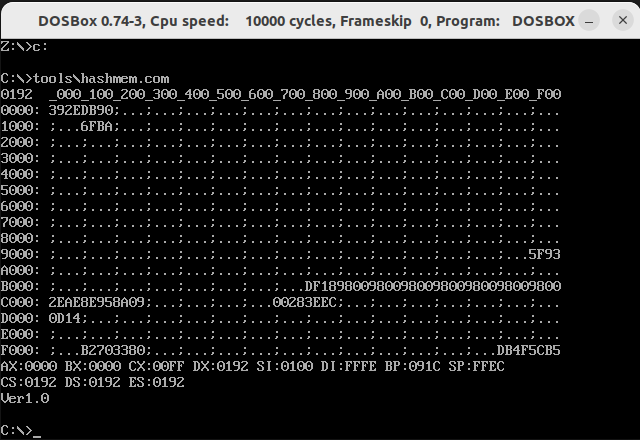
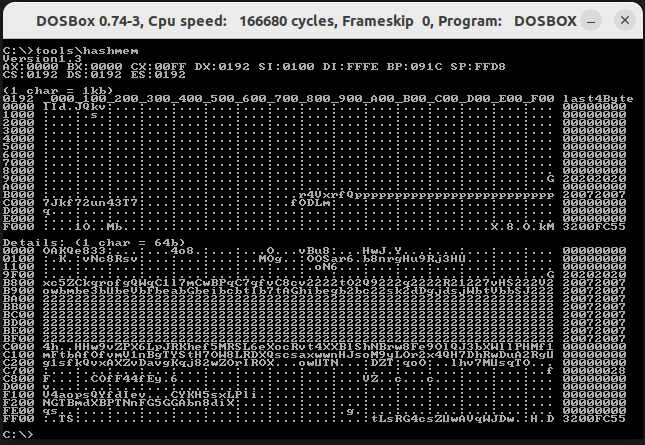
updated docs

diff --git a/SAMPLES.md b/SAMPLES.md
@@ -5,7 +5,149 @@
 - `hashmem.com` version 1.0 (built on 17.2.2024)
 - started directly via `dosbox -c hashmem.com`
 
-| Memory hashes                                               | Setup                                                                         |
-| ----------------------------------------------------------- | ----------------------------------------------------------------------------- |
-| <img src="hashmem_dosbox_0.74-3-ubuntu22.04.png" width=640> | - dosbox/jammy, now 0.74-3-4 amd64<br>- Ubuntu 22.04 LTS<br>- dosbox from apt |
-| <img src="hashmem_dosbox_staging0.81.0.png" width=640>      | - dosbox-staging version 0.81.0<br>- Ubuntu 22.04 LTS                         |
+<table>
+<tr>
+<th colspan=2>
+Comparision of two sample memory hash dumps Dosbox vs Dosbox-staging
+</th>
+</tr>
+<tr>
+<td colspan=2>
+Differences on staging:
+<ul>
+<li>Most memory patches that are NOT filled with zeros are different</li>
+<li>Grafics mode memory (A000 to AFFF) is filled with 0xFF instead of 0x00</li>
+<li>Memory before Textmode memory (B000 to B7FF) is filled with 0xFF instead of 0x00</li>
+</ul>
+</td>
+</tr>
+<tr>
+<td valign=top>dosbox/jammy, now 0.74-3-4 amd64 (Ubuntu 22.04 LTS)
+<pre>
+Version1.3
+AX:0000 BX:0000 CX:00FF DX:0192 SI:0100 DI:FFFE BP:091C SP:FFD8 
+CS:0192 DS:0192 ES:0192
+
+(1 char = 1kb)
+0192 \_000_100_200_300_400_500_600_700_800_900_A00_B00_C00_D00_E00_F00 last4Byte
+0000 l7d.UQuv:...:...:...:...:...:...:...:...:...:...:...:...:...:... 00000000
+1000 :...:.s.:...:...:...:...:...:...:...:...:...:...:...:...:...:... 00000000
+2000 :...:...:...:...:...:...:...:...:...:...:...:...:...:...:...:... 00000000
+3000 :...:...:...:...:...:...:...:...:...:...:...:...:...:...:...:... 00000000
+4000 :...:...:...:...:...:...:...:...:...:...:...:...:...:...:...:... 00000000
+5000 :...:...:...:...:...:...:...:...:...:...:...:...:...:...:...:... 00000000
+6000 :...:...:...:...:...:...:...:...:...:...:...:...:...:...:...:... 00000000
+7000 :...:...:...:...:...:...:...:...:...:...:...:...:...:...:...:... 00000000
+8000 :...:...:...:...:...:...:...:...:...:...:...:...:...:...:...:... 00000000
+9000 :...:...:...:...:...:...:...:...:...:...:...:...:...:...:...:..G 20202020
+A000 :...:...:...:...:...:...:...:...:...:...:...:...:...:...:...:... 00000000
+B000 :...:...:...:...:...:...:...:...r4V3pppppppppppppppppppppppppppp 20072007
+C000 7Jkf72un43T7:...:...:...:...:..fODB.:...:...:...:...:...:...:... 00000000
+D000 q...:...:...:...:...:...:...:...:...:...:...:...:...:...:...:... 00000000
+E000 :...:...:...:...:...:...:...:...:...:...:...:...:...:...:...:... 00000000
+F000 :...1O..Mb..:...:...:...:...:...:...:...:...:...:...:...X.8.O.kM 3200FC55
+
+Details: (1 char = 64b)
+0000 OAKQe833:...:...jM8.:...:...O...vBu8:...HwJ.Y...:...:...:...:... 00000000
+0100 :.K.:vCcmasv:...:...:...:..MOg..:OOS8r6.b8nrgHu9Rj3HU...:...:... 00000000
+1100 :...:...:...:...:...:...:...:...:.oN6...:...:...:...:...:...:... 00000000
+9F00 :...:...:...:...:...:...:...:...:...:...:...:...:...:...:...:..G 20202020
+B800 xc5ZCkqrofgQWqC1l7mCwBPqC7qfvC8cv2222tO2Q9222q2222W2222222222222 20072007
+B900 2222222222222222222222222222222222222222222222222222222222222222 20072007
+BA00 2222222222222222222222222222222222222222222222222222222222222222 20072007
+BB00 2222222222222222222222222222222222222222222222222222222222222222 20072007
+BC00 2222222222222222222222222222222222222222222222222222222222222222 20072007
+BD00 2222222222222222222222222222222222222222222222222222222222222222 20072007
+BE00 2222222222222222222222222222222222222222222222222222222222222222 20072007
+BF00 2222222222222222222222222222222222222222222222222222222222222222 20072007
+C000 4h..HHw9vZPX6LpJRKhef5MRSL6eXocRvt4XXBlShNBrw8Fe9OlQJ3bXWllPHMf1 00000000
+C100 mFtbAfOfvmV1nBgTYStH7OW8LRDXQscsaxwwnHJsoM9yLOr2x4QH7DhRwDuA2RgU 00000000
+C200 g1sfkQvxAXZvDavgKqj82wZOrIROX...owUTN...:DZT:qoO:..lhv7MUsqTO... 00000000
+C700 :...:...:...:...:...:...:...:...:...:...:...:...:...:...:...:..f 00000028
+C800 F...:.COfF44fEy.6...:...:...:...:...:...V5..c...:...:...:...:... 00000000
+D000 v...:...:...:...:...:...:...:...:...:...:...:...:...:...:...:... 00000000
+F100 V4aopsQYfdIev...CYKH5sxLPli.:...:...:...:...:...:...:...:...:... 00000000
+F200 NGTBmdXBPTNnFG5GGAbn8diX:...:...:...:...:...:...:...:...:...:... 00000000
+FE00 qs..:...:...:...:...:...:...:...:...:.g.:...:...:...:...:...:... 00000000
+FF00 :.TS:...:...:...:...:...:...:...:...:...:tLsRG4csZUwAVqWJDw.:H.D 3200FC55
+
+</pre>
+</td>
+<td valign=top>dosbox-staging version 0.81.0 (Ubuntu 22.04 LTS)
+<pre>
+Version1.3
+AX:0000 BX:0000 CX:00FF DX:0193 SI:0100 DI:FFFE BP:091C SP:FFD8 
+CS:0193 DS:0193 ES:0193
+
+(1 char = 1kb)
+0193 \_000_100_200_300_400_500_600_700_800_900_A00_B00_C00_D00_E00_F00 last4Byte
+0000 XCT.3Qz3:...:...:...:...:...:...:...:...:...:...:...:...:...:... 00000000
+1000 :...:.O.:...:...:...:...:...:...:...:...:...:...:...:...:...:... 00000000
+2000 :...:...:...:...:...:...:...:...:...:...:...:...:...:...:...:... 00000000
+3000 :...:...:...:...:...:...:...:...:...:...:...:...:...:...:...:... 00000000
+4000 :...:...:...:...:...:...:...:...:...:...:...:...:...:...:...:... 00000000
+5000 :...:...:...:...:...:...:...:...:...:...:...:...:...:...:...:... 00000000
+6000 :...:...:...:...:...:...:...:...:...:...:...:...:...:...:...:... 00000000
+7000 :...:...:...:...:...:...:...:...:...:...:...:...:...:...:...:... 00000000
+8000 :...:...:...:...:...:...:...:...:...:...:...:...:...:...:...:... 00000000
+9000 :...:...:...:...:...:...:...:...:...:...:...:...:...:...:...:..G 20202020
+A000 JJJJJJJJJJJJJJJJJJJJJJJJJJJJJJJJJJJJJJJJJJJJJJJJJJJJJJJJJJJJJJJJ FFFFFFFF
+B000 JJJJJJJJJJJJJJJJJJJJJJJJJJJJJJJJ3xPppppppppppppppppppppppppppppp 20072007
+C000 AuQ1x9qq5tbbm...:...:...:...:..B1uxF:...:...:...:...:...:...:... 00000000
+D000 q...:...:...:...:...:...:...:...:...:...:...:...:...:...:...:... 00000000
+E000 :...:...:...:...:...:...:...:...:...:...:...:...:...:...:...:... 00000000
+F000 :...il..Mb..:...:...:...:...:...:...:...:...:...:...:...u.C.O.ks 3200FC55
+
+Details: (1 char = 64b)
+0000 GAX5S8uu:...:...bsC.:...:...:..1v4u8:...HwJ.b...:...:...:...:... 00000000
+0100 :.K.:vecp.So:...:...:...:..MOg..:9EFI6r.ziKjWMrFk3Ibf...:...:... 00000000
+1100 :...:...:...:...:...:...:...:...:.JDk...:...:...:...:...:...:... 00000000
+9F00 :...:...:...:...:...:...:...:...:...:...:...:...:...:...:...:..G 20202020
+A000 rrrrrrrrrrrrrrrrrrrrrrrrrrrrrrrrrrrrrrrrrrrrrrrrrrrrrrrrrrrrrrrr FFFFFFFF
+A100 rrrrrrrrrrrrrrrrrrrrrrrrrrrrrrrrrrrrrrrrrrrrrrrrrrrrrrrrrrrrrrrr FFFFFFFF
+A200 rrrrrrrrrrrrrrrrrrrrrrrrrrrrrrrrrrrrrrrrrrrrrrrrrrrrrrrrrrrrrrrr FFFFFFFF
+A300 rrrrrrrrrrrrrrrrrrrrrrrrrrrrrrrrrrrrrrrrrrrrrrrrrrrrrrrrrrrrrrrr FFFFFFFF
+A400 rrrrrrrrrrrrrrrrrrrrrrrrrrrrrrrrrrrrrrrrrrrrrrrrrrrrrrrrrrrrrrrr FFFFFFFF
+A500 rrrrrrrrrrrrrrrrrrrrrrrrrrrrrrrrrrrrrrrrrrrrrrrrrrrrrrrrrrrrrrrr FFFFFFFF
+A600 rrrrrrrrrrrrrrrrrrrrrrrrrrrrrrrrrrrrrrrrrrrrrrrrrrrrrrrrrrrrrrrr FFFFFFFF
+A700 rrrrrrrrrrrrrrrrrrrrrrrrrrrrrrrrrrrrrrrrrrrrrrrrrrrrrrrrrrrrrrrr FFFFFFFF
+A800 rrrrrrrrrrrrrrrrrrrrrrrrrrrrrrrrrrrrrrrrrrrrrrrrrrrrrrrrrrrrrrrr FFFFFFFF
+A900 rrrrrrrrrrrrrrrrrrrrrrrrrrrrrrrrrrrrrrrrrrrrrrrrrrrrrrrrrrrrrrrr FFFFFFFF
+AA00 rrrrrrrrrrrrrrrrrrrrrrrrrrrrrrrrrrrrrrrrrrrrrrrrrrrrrrrrrrrrrrrr FFFFFFFF
+AB00 rrrrrrrrrrrrrrrrrrrrrrrrrrrrrrrrrrrrrrrrrrrrrrrrrrrrrrrrrrrrrrrr FFFFFFFF
+AC00 rrrrrrrrrrrrrrrrrrrrrrrrrrrrrrrrrrrrrrrrrrrrrrrrrrrrrrrrrrrrrrrr FFFFFFFF
+AD00 rrrrrrrrrrrrrrrrrrrrrrrrrrrrrrrrrrrrrrrrrrrrrrrrrrrrrrrrrrrrrrrr FFFFFFFF
+AE00 rrrrrrrrrrrrrrrrrrrrrrrrrrrrrrrrrrrrrrrrrrrrrrrrrrrrrrrrrrrrrrrr FFFFFFFF
+AF00 rrrrrrrrrrrrrrrrrrrrrrrrrrrrrrrrrrrrrrrrrrrrrrrrrrrrrrrrrrrrrrrr FFFFFFFF
+B000 rrrrrrrrrrrrrrrrrrrrrrrrrrrrrrrrrrrrrrrrrrrrrrrrrrrrrrrrrrrrrrrr FFFFFFFF
+B100 rrrrrrrrrrrrrrrrrrrrrrrrrrrrrrrrrrrrrrrrrrrrrrrrrrrrrrrrrrrrrrrr FFFFFFFF
+B200 rrrrrrrrrrrrrrrrrrrrrrrrrrrrrrrrrrrrrrrrrrrrrrrrrrrrrrrrrrrrrrrr FFFFFFFF
+B300 rrrrrrrrrrrrrrrrrrrrrrrrrrrrrrrrrrrrrrrrrrrrrrrrrrrrrrrrrrrrrrrr FFFFFFFF
+B400 rrrrrrrrrrrrrrrrrrrrrrrrrrrrrrrrrrrrrrrrrrrrrrrrrrrrrrrrrrrrrrrr FFFFFFFF
+B500 rrrrrrrrrrrrrrrrrrrrrrrrrrrrrrrrrrrrrrrrrrrrrrrrrrrrrrrrrrrrrrrr FFFFFFFF
+B600 rrrrrrrrrrrrrrrrrrrrrrrrrrrrrrrrrrrrrrrrrrrrrrrrrrrrrrrrrrrrrrrr FFFFFFFF
+B700 rrrrrrrrrrrrrrrrrrrrrrrrrrrrrrrrrrrrrrrrrrrrrrrrrrrrrrrrrrrrrrrr FFFFFFFF
+B800 xc5V7kqrofgQWqC1e7XCwBPqCMitcd22tO21mu22F22222222222222222222222 20072007
+B900 2222222222222222222222222222222222222222222222222222222222222222 20072007
+BA00 2222222222222222222222222222222222222222222222222222222222222222 20072007
+BB00 2222222222222222222222222222222222222222222222222222222222222222 20072007
+BC00 2222222222222222222222222222222222222222222222222222222222222222 20072007
+BD00 2222222222222222222222222222222222222222222222222222222222222222 20072007
+BE00 2222222222222222222222222222222222222222222222222222222222222222 20072007
+BF00 2222222222222222222222222222222222222222222222222222222222222222 20072007
+C000 sh..kVtkKShGPBSwEhIPn211TmS7ps3w14jnFxRKrGET4YdeKWJO9AQPVbopuokH 0000DC66
+C100 GCfLtiWSVsDwE8WEmBeAw73CJ3gcABt7BQs3wCjl2MxAbldhl7zMD8HVXhDNiUm5 D6C60000
+C200 3lc1YO9XBHNIwaa7xyUtX9ZCHjRuHqFh19qASPEqoX..:nFq6V..:.aBf.3Bc... 00000000
+C300 eJAl25hgp...:...:...:...:...:...:...:...:...:...:...:...:...:... 00000000
+C700 :...:...:...:...:...:...:...:...:...:...:...:...:...:...:...:..B 00000084
+C800 Y...:.rFOA5VY6sy2pd.n...:...:...:...:...:...PZ..c...6...:...:... 00000000
+D000 v...:...:...:...:...:...:...:...:...:...:...:...:...:...:...:... 00000000
+F100 V48BpRQYfdIey..q:wKv5cDP7z..:...:...:...:...:...:...:...:...:... 00000000
+F200 NGTBmdXBPTNnFG5GGAbn8diX:...:...:...:...:...:...:...:...:...:... 00000000
+FE00 qk..:...:...:...:...:...:...:...:...:.D.:...:...:...:...:...:... 00000000
+FF00 :.TS:...:...:...:...:...:...:...:...:...:tLsRG4csZUwAVqWJDz.:5.C 3200FC55
+
+</pre>
+</td>
+</tr>
+</table>

diff --git a/README.md b/README.md
@@ -8,20 +8,27 @@ When talking about this with [hannu](https://demozoo.org/sceners/130104/), he me
 
 So I thought a tool for being able to look at the contents of the memory might be helpful.
 
-## hashmem (version 1.0)
+## hashmem (version 1.3)
 
-Displays a map of hashes of the first 1MB of memory in chunks of 4kb blocks.
+Displays a map of hashes of the first 1MB of memory in chunks of 1kb blocks and all non zero blocks in a 64byte-detailed view.
 This is useful to compare the initial state of DOS environments.
 
 #### Visuals
 
+- Version of hashmem.
+- Initial values of registers.
 - You see 1MB of memory in tabular form.
-- Each of the 16 rows spans 64kb of memory.
-- The 16 columns separate those 64kb in 16 patch of 4kb of memory and show the corresponding hashes.
-- When a hash is zero it is not displayed (for me, most of memory is filled with zeros).
-- Upper left corner shows the segment the code of `hashmem.com` is loaded to. So the hash of this 4kb patch (and the one a row below that, cause of the stack) is influenced by the code that is executed and does not necessarily stem from environmental differences.
+  - Each of the 16 rows spans 64kb of memory.
+  - Each line shows it starting segment address and then prints 64 hashes (1 char per hash) that each represent 1kb of memory.
+  - If the 1kb block of memory is completely filled with zeros the hash shows '.' or ':', otherwise it shows one of 0-9, a-z or A-Z.
+  - Most of memory is filled with zeros.
+  - At the end of each line the last 4 bytes of the 64kb segment are shown plain.
+  - Upper left corner shows the segment the code of `hashmem.com` is loaded to. So the hash of this 4kb patch (and the one a row below that, cause of the stack) is influenced by the code that is executed and does not necessarily stem from environmental differences.
+- "Details" - show a detailed view of all 4kb patches, that did contain at least one non-zero byte.
+  - the length of this view may vary
+  - the layout of each line is the same as in the first overview part, only now one char does represent a 64 byte block and not a 1kb block
 
-#### Observations
+#### Observations in Dosbox
 
 - Graphics memory at 0xA000 is completely filled with zeros.
 - The first page (4kb) of textmode memory at 0xB800 is different every time, because the tool itself is actively writing on the screen.
